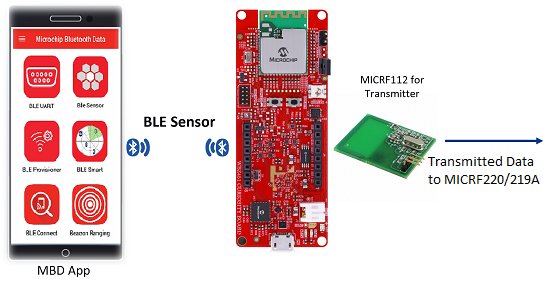
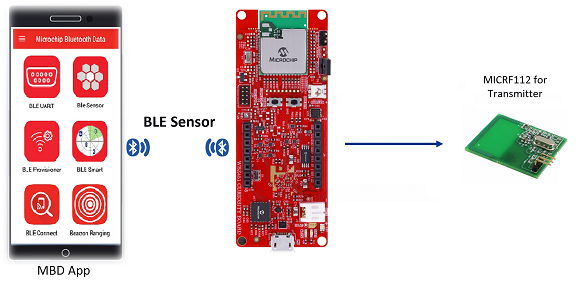
README.md

diff --git a/WBZ451_MICRF112_114/README.md b/WBZ451_MICRF112_114/README.md
@@ -6,7 +6,7 @@
 > "IOT Made Easy!" 
 
 Devices: **| PIC32CXBZ2 | WBZ45x |**<br>
-Features: **| BLE | E-PAPER |**
+Features: **| BLE SENSOR | MICRF112-433-EV |**
 
 
 ## ⚠ Disclaimer
@@ -31,9 +31,13 @@ Checkout the <a href="https://microchipsupport.force.com/s/" target="_blank">Tec
 
 ## 1. Introduction<a name="step1">
 
-This application demonstrates the use of an MICRF112/114 as transmitter using ASK Modulation interfaced with WBZ451 Curiosity Board to control the RGB LED of WBZ451 Curiosity board on receiver part. This LED can be controlled by Microchip Bluetooth Data ([(MBD)](https://play.google.com/store/apps/details?id=com.microchip.bluetooth.data&hl=en_IN&gl=US) application through Bluetooth Low Energy (BLE) using [BLE Sensor application](https://github.com/Microchip-MPLAB-Harmony/wireless_apps_pic32cxbz2_wbz45/tree/master/apps/ble/advanced_applications/ble_sensor).The temperature data is also periodically reported to the mobile phone through BLE.
+This application demonstrates the use of an MICRF112 433MHz as transmitter using ASK Modulation interfaced with WBZ451 Curiosity Board to control the RGB LED of WBZ451 Curiosity board on receiver part. This LED can be controlled by Microchip Bluetooth Data ([(MBD)](https://play.google.com/store/apps/details?id=com.microchip.bluetooth.data&hl=en_IN&gl=US) application through Bluetooth Low Energy (BLE) using [BLE Sensor application](https://github.com/Microchip-MPLAB-Harmony/wireless_apps_pic32cxbz2_wbz45/tree/master/apps/ble/advanced_applications/ble_sensor).The temperature data is also periodically reported to the mobile phone through BLE.
 
 ![](docs/Picture1.png)
+
+The Data frame of the Transmitted data is shown below. 
+
+![](docs/Untitled2.png)
 
 ## 2. Bill of materials<a name="step2">
 
@@ -46,6 +50,8 @@ This application demonstrates the use of an MICRF112/114 as transmitter using AS
 
 - Connect the MICRF112-433 EVALBOARD with the WBZ451 CURIOSITY BOARD using the below table.
 
+![](docs/micrf_1.png)
+
 | MICRF112 | WBZ451		   | Description |
 | :- | :- | :- |
 | J1-1     |    3.3V       |     VDD     |
@@ -55,7 +61,7 @@ This application demonstrates the use of an MICRF112/114 as transmitter using AS
 | J2-2     |       GND     |     GND     |
 | J2-3     |    N/C        |    N/C      |
 
-![](docs/connection.png) ![](docs/pin_connection.png)
+![](docs/micrf_2.png) ![](docs/micrf_3.png)
 
 ## 4. Software Setup<a name="step4">
 
@@ -78,7 +84,7 @@ This application demonstrates the use of an MICRF112/114 as transmitter using AS
 
 - [Microchip Bluetooth Data (MBD) iOS/Android app](https://play.google.com/store/apps/details?id=com.microchip.bluetooth.data&hl=en_IN&gl=US)
 
-- [MPLAB X IPE v6.00](https://microchipdeveloper.com/ipe:installation)
+- [MPLAB X IPE v6.05](https://microchipdeveloper.com/ipe:installation)
 
 ## 5. Harmony MCC Configuration<a name="step5">
 
@@ -107,19 +113,27 @@ This application demonstrates the use of an MICRF112/114 as transmitter using AS
 
 **Step 6** - [Generate the code](https://onlinedocs.microchip.com/pr/GUID-A5330D3A-9F51-4A26-B71D-8503A493DF9C-en-US-1/index.html?GUID-9C28F407-4879-4174-9963-2CF34161398E).
 
-**Step 7** - To Add Header files Right click the Header Files to Add Existing items from the [micrf](https://github.com/MicrochipTech/PIC32CXBZ2_WBZ45x_Sub-GHz_MICRF112_114_MICRF220_219A_BLE_SENSOR/tree/main/WBZ451_MICRF112_114/micrf112)
+**Step 7** - To Add the Header files. Right click the Header Files and select "Add Existing items" to add the files from [micrf](https://github.com/MicrochipTech/PIC32CXBZ2_WBZ45x_Sub-GHz_MICRF112_114_MICRF220_219A_BLE_SENSOR/tree/main/WBZ451_MICRF112_114/micrf112) folder.
 
-**Step 8** - To Add Source files Right click the Source Files to Add Existing items from the [micrf](https://github.com/MicrochipTech/PIC32CXBZ2_WBZ45x_Sub-GHz_MICRF112_114_MICRF220_219A_BLE_SENSOR/tree/main/WBZ451_MICRF112_114/micrf112)
+**Step 8** - To Add the Source files. Right click the Source Files and select "Add Existing items" to add the files from [micrf](https://github.com/MicrochipTech/PIC32CXBZ2_WBZ45x_Sub-GHz_MICRF112_114_MICRF220_219A_BLE_SENSOR/tree/main/WBZ451_MICRF112_114/micrf112) folder.
 
-**Step 9** - Copy and paste the app.h and app.c files from the given location.
+**Step 9** - In your MPLAB Harmony v3 based application go to "firmware\src" to Copy and paste the app.h and app.c files from the given location.
 
-[app.h](https://github.com/MicrochipTech/PIC32CXBZ2_WBZ45x_Sub-GHz_MICRF112_114_MICRF220_219A_BLE_SENSOR/blob/main/WBZ451_MICRF112_114/firmware/src/app.h)
+- [app.h](https://github.com/MicrochipTech/PIC32CXBZ2_WBZ45x_Sub-GHz_MICRF112_114_MICRF220_219A_BLE_SENSOR/blob/main/WBZ451_MICRF112_114/firmware/src/app.h)
 
-[app.c](https://github.com/MicrochipTech/PIC32CXBZ2_WBZ45x_Sub-GHz_MICRF112_114_MICRF220_219A_BLE_SENSOR/blob/main/WBZ451_MICRF112_114/firmware/src/app.c)
+- [app.c](https://github.com/MicrochipTech/PIC32CXBZ2_WBZ45x_Sub-GHz_MICRF112_114_MICRF220_219A_BLE_SENSOR/blob/main/WBZ451_MICRF112_114/firmware/src/app.c)
 
+**Step 10** - In your MPLAB Harmony v3 based application go to "firmware\src\app_ble\app_ble.c" and do the following changes.
 
+![](docs/app_ble.png)
 
-**Step 15** - Clean and build the project. To run the project, select "Make and program device" button.
+![](docs/id.png)
+
+**Step 11** - In your MPLAB Harmony v3 based application go to "firmware\src\app_ble_sensor.c" and do the following changes.
+
+![](docs/ble_sensor.png)
+
+**Step 12** - Clean and build the project. To run the project, select "Make and program device" button.
 
 
 ## 6. Board Programming<a name="step6">
@@ -136,7 +150,7 @@ Follow the steps provided in the link to [program the precompiled hex file](http
 
 The application folder can be found by navigating to the following path: 
 
-- "WBZ451_E_PAPER_BLE_UART\firmware\WBZ451_E_PAPER_BLE_UART.X"
+- "WBZ451_MICRF112_114/firmware/WBZ451_MICRF112_114.X"
 
 Follow the steps provided in the link to [Build and program the application](https://github.com/Microchip-MPLAB-Harmony/wireless_apps_pic32cxbz2_wbz45/tree/master/apps/ble/advanced_applications/ble_sensor#build-and-program-the-application-guid-3d55fb8a-5995-439d-bcd6-deae7e8e78ad-section).
 

diff --git a/README.md b/README.md
@@ -6,7 +6,7 @@
 > "IOT Made Easy!" 
 
 Devices: **| PIC32CXBZ2 | WBZ45x |**<br>
-Features: **| BLE | E-PAPER |**
+Features: **| BLE SENSOR | MICRF112-433-EV |**
 
 
 ## ⚠ Disclaimer
